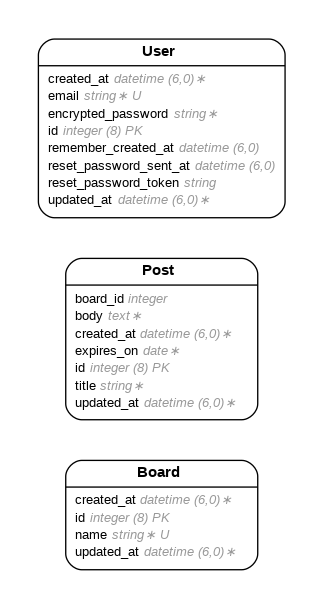
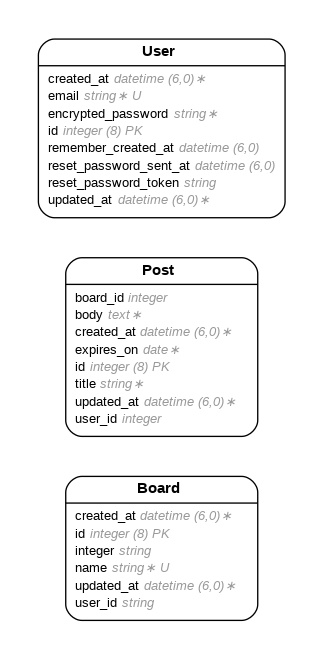
Added user_id foreign keys

Changed region(s): [[0.0929, 0.0312, 0.8978, 0.9672], [0.774, 0.9048, 0.805, 0.936]]

diff --git a/db/schema.rb b/db/schema.rb
@@ -10,7 +10,7 @@
 #
 # It's strongly recommended that you check this file into your version control system.
 
-ActiveRecord::Schema[7.1].define(version: 2024_11_23_062636) do
+ActiveRecord::Schema[7.1].define(version: 2024_11_24_160742) do
   # These are extensions that must be enabled in order to support this database
   enable_extension "plpgsql"
 
@@ -18,6 +18,8 @@ ActiveRecord::Schema[7.1].define(version: 2024_11_23_062636) do
     t.string "name"
     t.datetime "created_at", null: false
     t.datetime "updated_at", null: false
+    t.string "user_id"
+    t.string "integer"
   end
 
   create_table "posts", force: :cascade do |t|
@@ -27,6 +29,7 @@ ActiveRecord::Schema[7.1].define(version: 2024_11_23_062636) do
     t.integer "board_id"
     t.datetime "created_at", null: false
     t.datetime "updated_at", null: false
+    t.integer "user_id"
   end
 
   create_table "users", force: :cascade do |t|

diff --git a/app/models/board.rb b/app/models/board.rb
@@ -3,9 +3,11 @@
 # Table name: boards
 #
 #  id         :bigint           not null, primary key
+#  integer    :string
 #  name       :string
 #  created_at :datetime         not null
 #  updated_at :datetime         not null
+#  user_id    :string
 #
 class Board < ApplicationRecord
   validates(:name, presence: true, uniqueness: true)

diff --git a/app/models/post.rb b/app/models/post.rb
@@ -9,6 +9,7 @@
 #  created_at :datetime         not null
 #  updated_at :datetime         not null
 #  board_id   :integer
+#  user_id    :integer
 #
 class Post < ApplicationRecord
   validates(:title, presence: true)

diff --git a/db/migrate/20241124160620_add_user_id_to_boards.rb b/db/migrate/20241124160620_add_user_id_to_boards.rb
@@ -1,0 +1,6 @@
+class AddUserIdToBoards < ActiveRecord::Migration[7.1]
+  def change
+    add_column :boards, :user_id, :string
+    add_column :boards, :integer, :string
+  end
+end

diff --git a/db/migrate/20241124160742_add_user_id_to_posts.rb b/db/migrate/20241124160742_add_user_id_to_posts.rb
@@ -1,0 +1,5 @@
+class AddUserIdToPosts < ActiveRecord::Migration[7.1]
+  def change
+    add_column :posts, :user_id, :integer
+  end
+end
